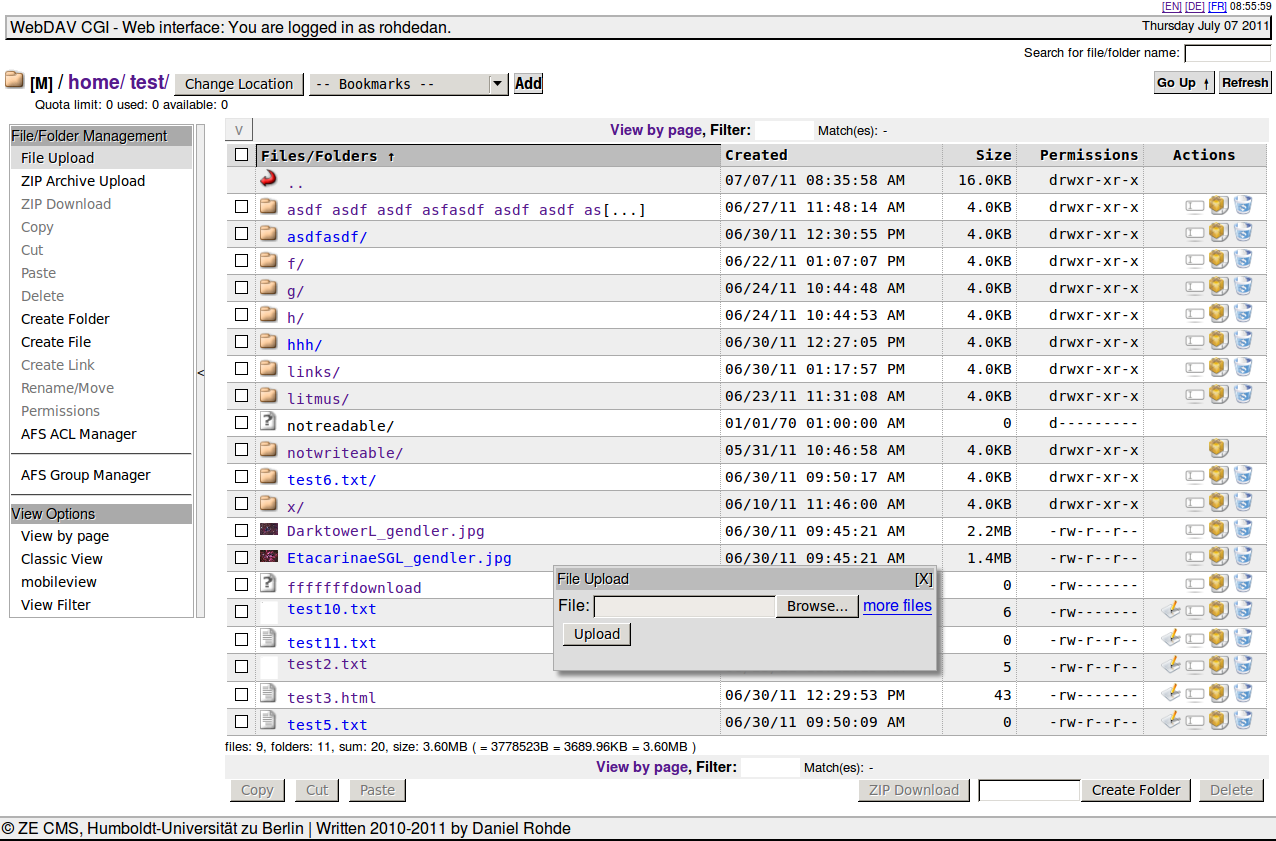
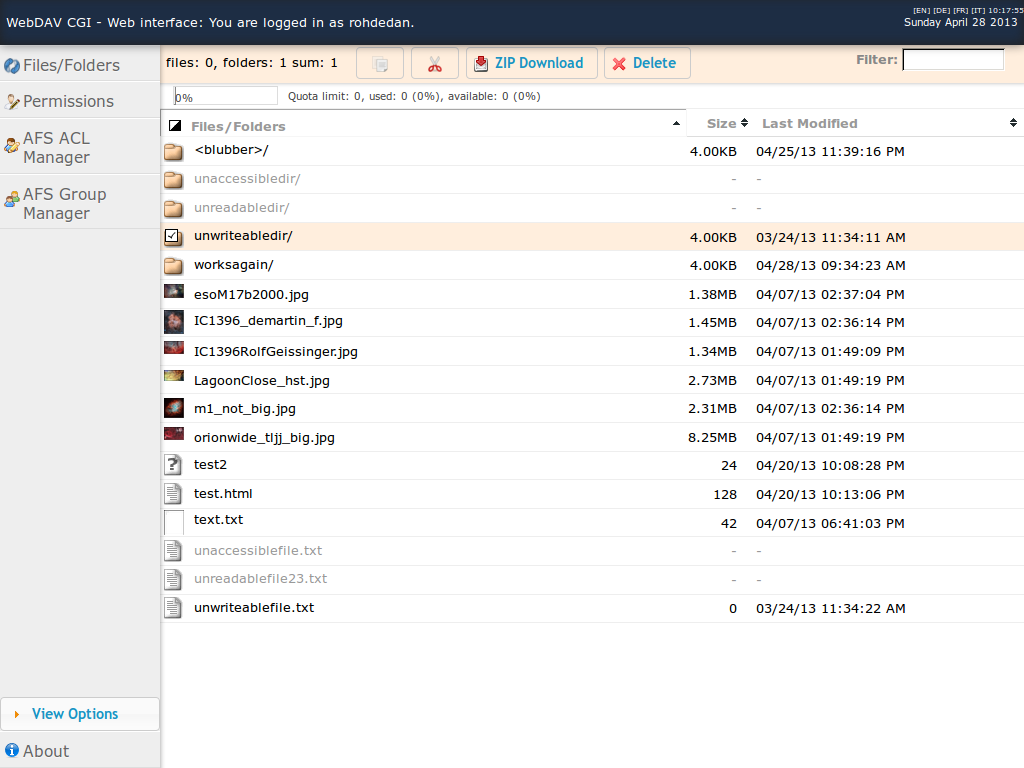
+ added new screenshoots
git-svn-id: http://svn.code.sf.net/p/webdavcgi/code/trunk@401 897ff082-f61f-4a6f-8baa-9658165df2dd

diff --git a/doc/index.html b/doc/index.html
@@ -127,19 +127,19 @@ Known Problems:
 <table border="0" cellpadding="10" cellspacing="0" class="screenshottable">
 <tr><th colspan="7">Web interface</th></tr>
 <tr>
-<td align="center" valign="bottom">
+<td align="center" valign="bottom" >
 <a href="images/webdavcgi-webinterface.png"><img onmouseover="javascript:startZoom(this, 50, 200, 500, 10);" onmouseout="javascript:stopZoom(this);" class="screenshot" src="images/webdavcgi-webinterface.png" alt="Web interface file/folder browser" title="Web interface file/folder browser - click for full size"/></a>
 <div class="screenshottitle">file/folder browser</div>
 </td>
 <td>&nbsp;</td>
 <td align="center" valign="bottom">
-<a href="images/webdavcgi-webinterface-properties.png"><img onmouseover="javascript:startZoom(this, 50, 200, 500, 10);" onmouseout="javascript:stopZoom(this);" class="screenshot" src="images/webdavcgi-webinterface-properties.png" alt="Web interface properties view" title="Web interface properties view - click for full size"/></a>
-<div class="screenshottitle">properties view</div>
+<a href="images/webdavcgi-webinterface-afs.png"><img onmouseover="javascript:startZoom(this, 50, 200, 500, 10);" onmouseout="javascript:stopZoom(this);" class="screenshot" src="images/webdavcgi-webinterface-afs.png" alt="Web interface AFS dialogs" title="Web interface AFS dialogs - click for full size"/></a>
+<div class="screenshottitle">AFS Group &amp; ACL Manager</div>
 </td>
 <td>&nbsp;</td>
 <td align="center" valign="bottom">
-<a href="images/webdavcgi-webinterface-search.png"><img onmouseover="javascript:startZoom(this, 50, 200, 500, 10);" onmouseout="javascript:stopZoom(this);" class="screenshot" src="images/webdavcgi-webinterface-search.png" alt="Web interface search view" title="Web interface search view - click for full size"/></a>
-<div class="screenshottitle">search view</div>
+<a href="images/webdavcgi-webinterface-permissions.png"><img onmouseover="javascript:startZoom(this, 50, 200, 500, 10);" onmouseout="javascript:stopZoom(this);" class="screenshot" src="images/webdavcgi-webinterface-permissions.png" alt="Web interface permissions dialog" title="Web interface permissions dialog - click for full size"/></a>
+<div class="screenshottitle">Permissions dialog</div>
 </td>
 </tr>
 <tr>

diff --git a/htdocs/views/simple/script.js b/htdocs/views/simple/script.js
@@ -321,7 +321,8 @@ function initSearchBox() {
 					} catch (e) {
 						return files;
 					}
-				});
+				})
+				.focus();
 		});
 }
 function applySearch() {
@@ -1246,7 +1247,7 @@ function handleAFSGroupManager(event) {
 	$.get(target, { ajax : "getAFSGroupManager", template: template }, function(response) {
 		var groupmanager = $(response);
 		initGroupManager(groupmanager, template, target);
-		groupmanager.dialog({modal: true, width: "auto", height: "auto", close: function() { groupmanager.remove();}}).show();
+		groupmanager.dialog({modal: false, width: "auto", height: "auto", close: function() { groupmanager.remove();}}).show();
 	});	
 }
 function handleAFSACLManager(event){
